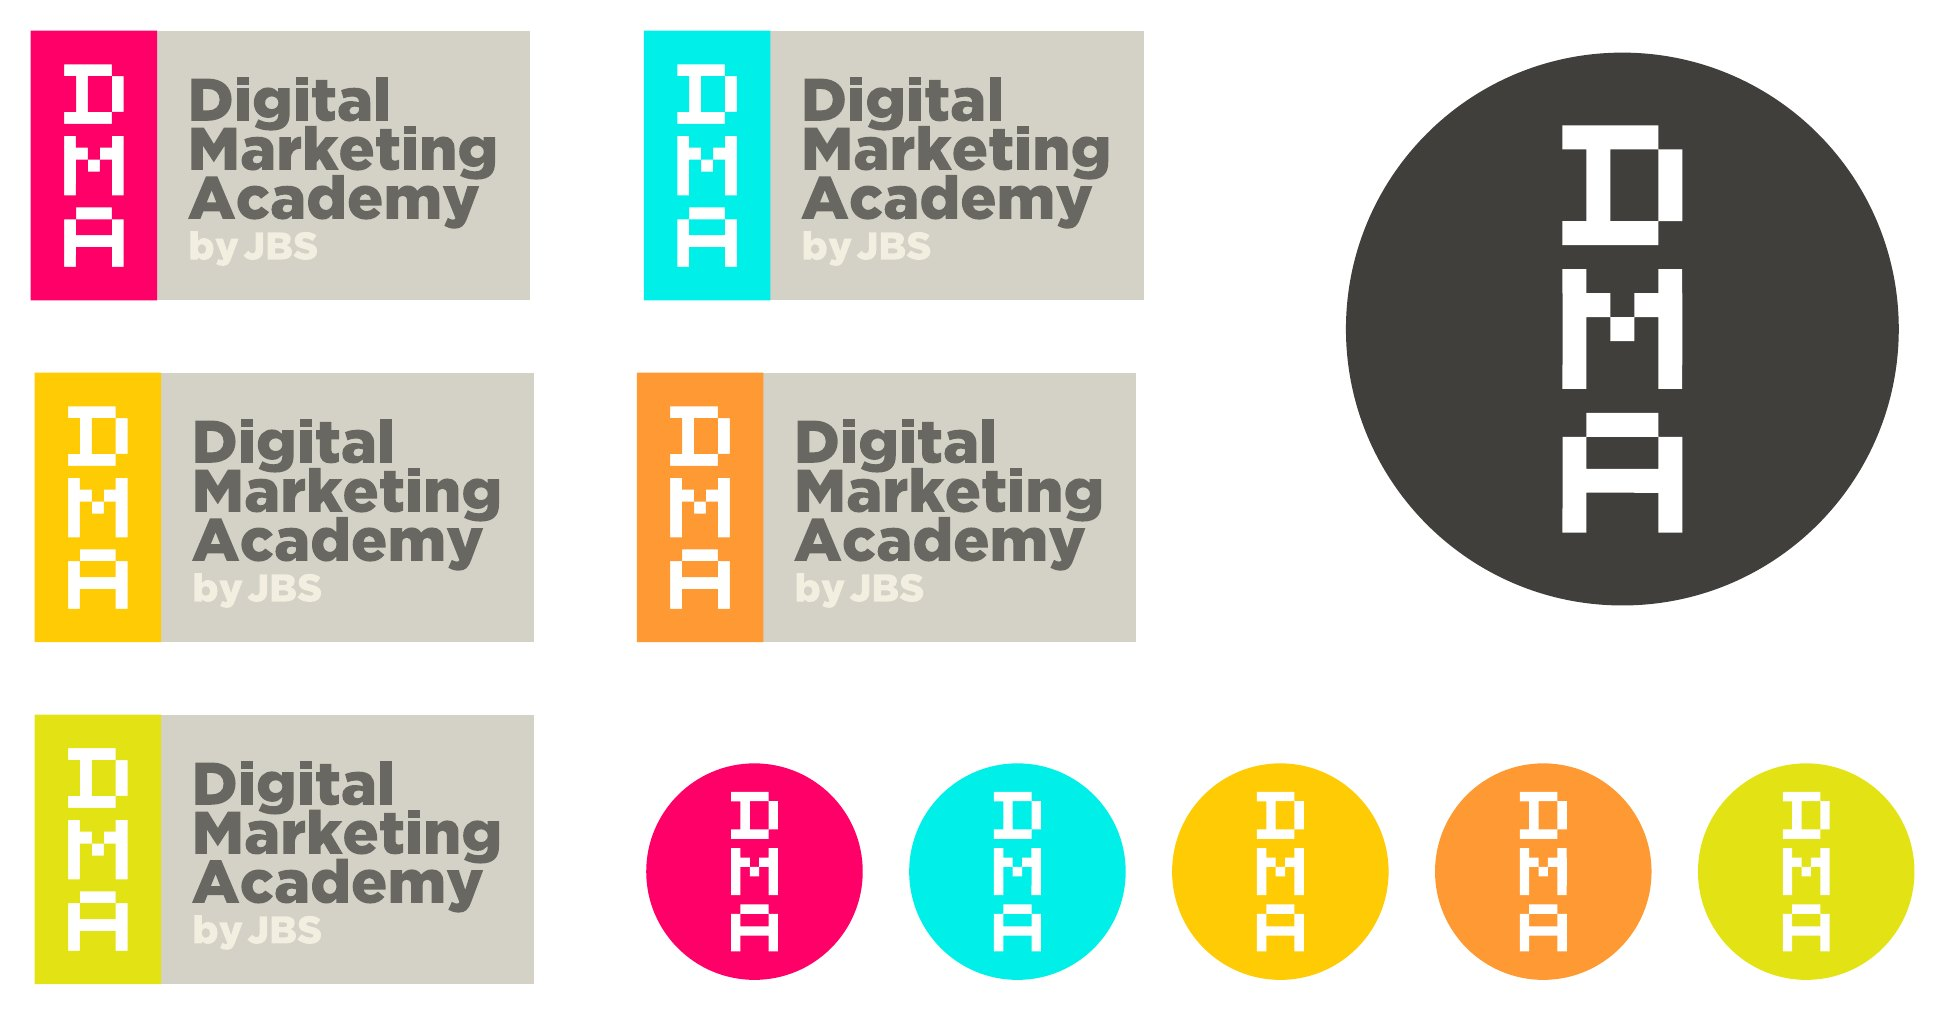
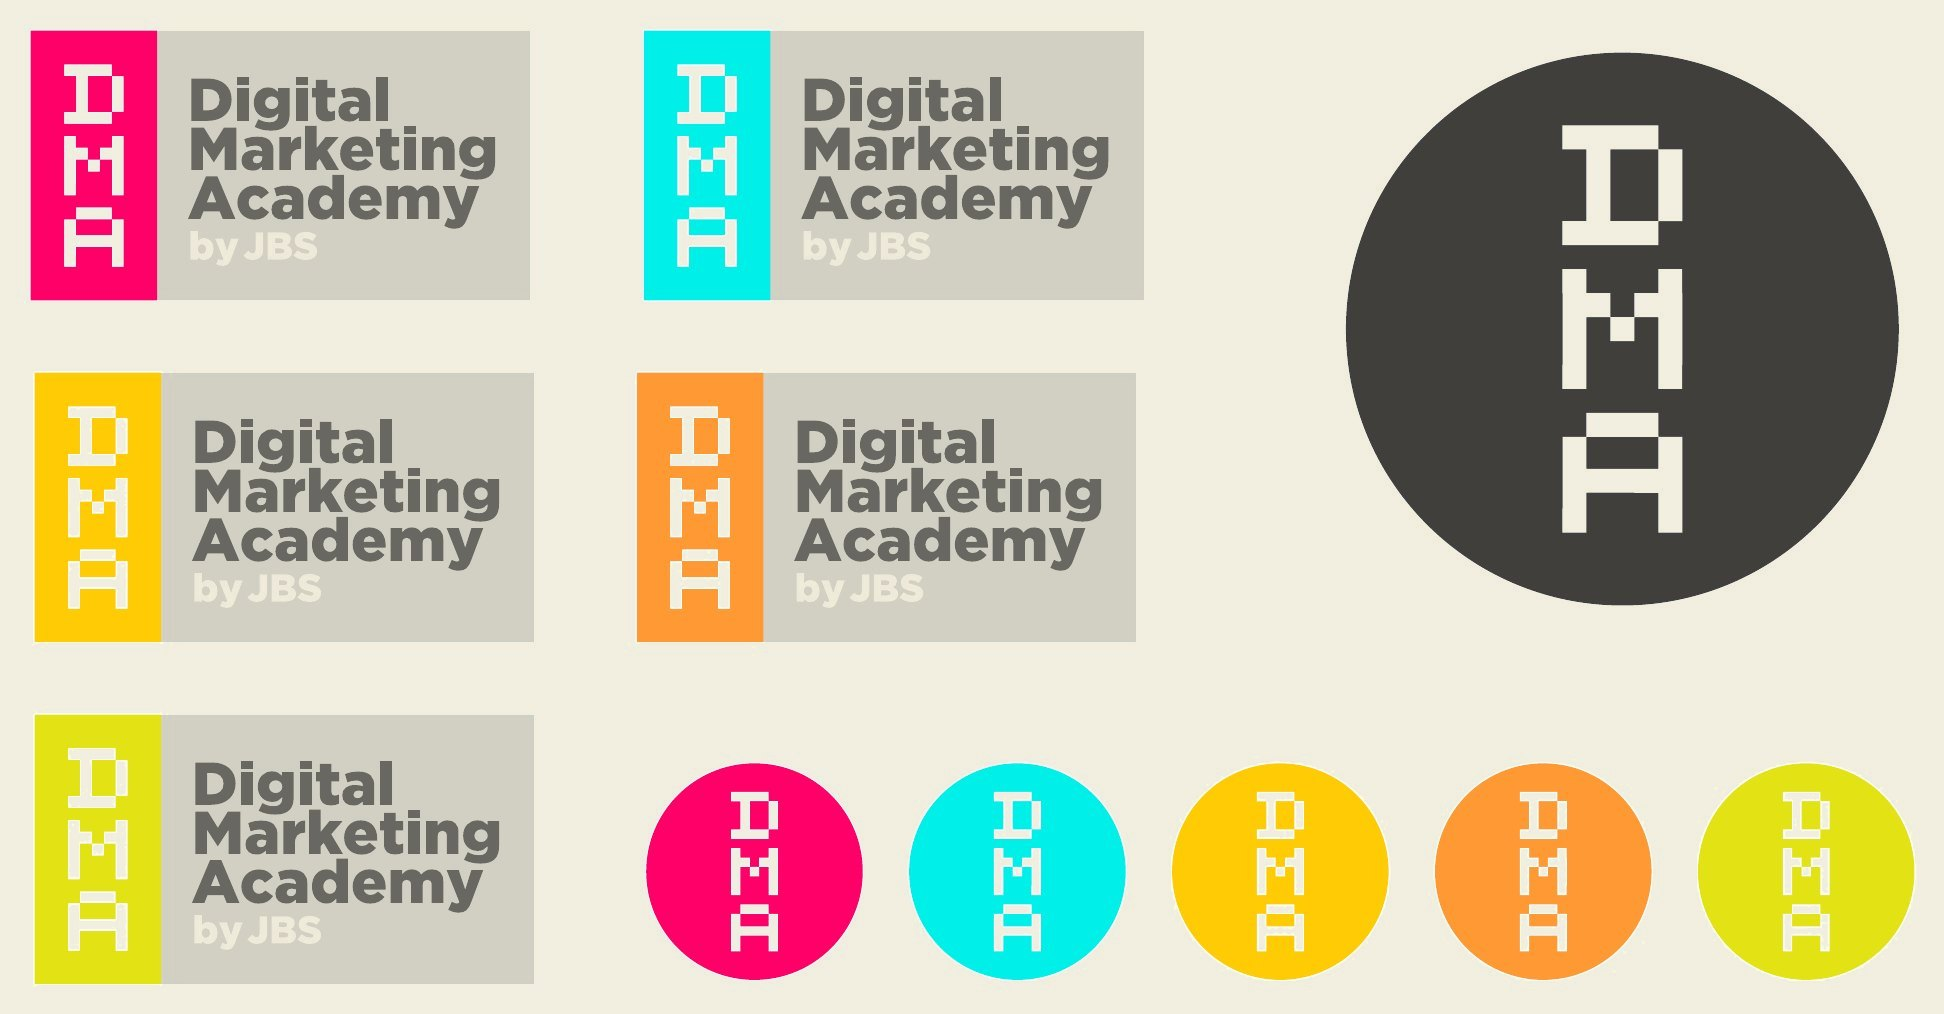
Draft DMA: blend white backgrounds, launch wording, 5 more mockups (Felipe, Nov 13 2026)
Claude-Session: https://claude.ai/code/session_01SfC83JdewSYvzzcULetiDM

diff --git a/js/content.js b/js/content.js
@@ -1201,7 +1201,7 @@ window.SITE = {
       sector: { en: "Corporate education", pt: "Educação corporativa", es: "Educación corporativa" },
       deliverables: { en: "Monogram, logo system, palette, typography, pattern, brandbook, launch campaign, stationery and merchandise", pt: "Monograma, sistema de logos, paleta, tipografia, padrão, brandbook, campanha de lançamento, papelaria e brindes", es: "Monograma, sistema de logos, paleta, tipografía, patrón, brandbook, campaña de lanzamiento, papelería y merch" },
       tags: { en: ["Branding", "VisualSystem", "Brandbook", "Launch"], pt: ["Branding", "SistemaVisual", "Brandbook", "Lançamento"], es: ["Branding", "SistemaVisual", "Brandbook", "Lanzamiento"] },
-      // Felipe, Nov 13 2026: done alone; the academy never launched, so the photo scenes are mockups (made with Flora) and say so.
+      // Felipe, Nov 13 2026: done alone; the academy launched and became the base for all of JBS's digital initiatives (incl. Seara Minha Receita, a case still to come). Photo scenes are Flora mockups and are captioned "Mockup".
       tools: ["Adobe CC", "*Flora.AI"],
       image: "images/dma/mockup-mural.jpg",
       hero: "bleed",
@@ -1219,7 +1219,7 @@ window.SITE = {
         { src: "images/dma/teaser-four.jpg", ar: "2000/900", col: 1, span: 12, caption: { en: "One message, four colourways", pt: "Uma mensagem, quatro cores", es: "Un mensaje, cuatro colores" } },
         { chapter: { en: "02 · Challenge", pt: "02 · Desafio", es: "02 · Desafío" }, kicker: { en: "The brief", pt: "O briefing", es: "El brief" },
           head: { en: "One academy, *one face.*", pt: "Uma academia, *uma cara só.*", es: "Una academia, *una sola cara.*" },
-          text: { en: "Under contract with JBS, I worked directly with then-CMO Sérgio Valente. He wanted a digital academy to mentor staff and leaders at Seara, Swift, Friboi and the group's other companies, with one name and one face. Digital Marketing Academy was born from the pixel.", pt: "Contratado pela JBS, trabalhei direto com o Sérgio Valente, CMO na época. Ele queria uma academia digital pra mentorar funcionários e líderes da Seara, Swift, Friboi e outras empresas do grupo, com um nome e uma cara só. Daí nasceu a Digital Marketing Academy, a partir do pixel.", es: "Contratado por JBS, trabajé directo con Sérgio Valente, el CMO de ese momento. Él quería una academia digital para mentorear a empleados y líderes de Seara, Swift, Friboi y otras empresas del grupo, con un solo nombre y una sola cara. De ahí nació Digital Marketing Academy, a partir del pixel." } },
+          text: { en: "Under contract with JBS, I worked directly with then-CMO Sérgio Valente. He wanted a digital academy to mentor staff and leaders at Seara, Swift, Friboi and the group's other companies, with one name and one face. Digital Marketing Academy was born from the pixel, and went on to become the base for all of JBS's digital initiatives.", pt: "Contratado pela JBS, trabalhei direto com o Sérgio Valente, CMO na época. Ele queria uma academia digital pra mentorar funcionários e líderes da Seara, Swift, Friboi e outras empresas do grupo, com um nome e uma cara só. Daí nasceu a Digital Marketing Academy, a partir do pixel, que virou a base de todas as iniciativas digitais da JBS.", es: "Contratado por JBS, trabajé directo con Sérgio Valente, el CMO de ese momento. Él quería una academia digital para mentorear a empleados y líderes de Seara, Swift, Friboi y otras empresas del grupo, con un solo nombre y una sola cara. De ahí nació Digital Marketing Academy, a partir del pixel, que se volvió la base de todas las iniciativas digitales de JBS." } },
         { src: "images/dma/mockup-stage.jpg", ar: "2000/1116", col: 1, span: 12, caption: { en: "Mockup — the academy on the big screen", pt: "Mockup — a academia no telão", es: "Mockup — la academia en la pantalla grande" } },
         { chapter: { en: "03 · The pixel", pt: "03 · O pixel", es: "03 · El pixel" }, kicker: "pix · el",
           head: { en: "The heart of the brand is *a pixel.*", pt: "O coração da marca é *um pixel.*", es: "El corazón de la marca es *un pixel.*" },
@@ -1255,33 +1255,37 @@ window.SITE = {
           head: { en: "Don't be *afraid.*", pt: "Sem *medo.*", es: "Sin *miedo.*" },
           text: { en: "Learning digital marketing means testing, getting it wrong and trying again. The brand's voice says it straight: don't be afraid to experiment, to explore, to innovate, to subvert, to create.", pt: "Aprender marketing digital é testar, errar e tentar de novo. A voz da marca diz isso sem rodeio: não tenha medo de experimentar, explorar, inovar, subverter, criar.", es: "Aprender marketing digital es probar, equivocarse y volver a intentarlo. La voz de la marca lo dice sin rodeos: no tengas miedo de experimentar, explorar, innovar, subvertir, crear." } },
         { src: "images/dma/dont-be-afraid.jpg", ar: "2000/945", col: 1, span: 12 },
+        { src: "images/dma/mockup-wall.jpg", ar: "2000/1116", col: 1, span: 12, caption: { en: "Mockup — the lines on a training room wall", pt: "Mockup — as frases na parede da sala de aula", es: "Mockup — las frases en la pared del aula" } },
         { chapter: { en: "09 · Launch", pt: "09 · Lançamento", es: "09 · Lanzamiento" }, kicker: { en: "Coming on January 6th 2023", pt: "Coming on January 6th 2023", es: "Coming on January 6th 2023" },
           head: { en: "We do really *love our pixels.*", pt: "A gente ama *nossos pixels.* De verdade.", es: "Amamos *nuestros pixeles.* En serio." },
-          text: { en: "The launch teaser was drawn with a date and a wink: “think inside the box”, set upside down, for a brand made of little boxes. In Portuguese the invitation became a pun: “Venha pixaprender”, come pixel-learn.", pt: "O teaser de lançamento foi desenhado com uma data e uma piscadinha: “think inside the box”, de ponta-cabeça, pra uma marca feita de quadradinhos. Em português, o convite virou trocadilho: “Venha pixaprender”.", es: "El teaser de lanzamiento se dibujó con una fecha y un guiño: “think inside the box”, al revés, para una marca hecha de cuadritos. En portugués, la invitación se volvió juego de palabras: “Venha pixaprender”." },
+          text: { en: "The launch teaser came with a date and a wink: “think inside the box”, set upside down, for a brand made of little boxes. In Portuguese the invitation became a pun: “Venha pixaprender”, come pixel-learn.", pt: "O teaser de lançamento veio com uma data e uma piscadinha: “think inside the box”, de ponta-cabeça, pra uma marca feita de quadradinhos. Em português, o convite virou trocadilho: “Venha pixaprender”.", es: "El teaser de lanzamiento llegó con una fecha y un guiño: “think inside the box”, al revés, para una marca hecha de cuadritos. En portugués, la invitación se volvió juego de palabras: “Venha pixaprender”." },
           pills: ["*We do really love our pixels!", "Think inside the box", "Venha pixaprender"] },
         { src: "images/dma/teaser-cyan.jpg", ar: "1932/1044", col: 1, span: 12, caption: { en: "Teaser", pt: "Teaser", es: "Teaser" } },
         { src: "images/dma/mockup-posters.jpg", ar: "2000/1116", col: 1, span: 12, caption: { en: "Mockup — teaser posters on the street", pt: "Mockup — cartazes do teaser na rua", es: "Mockup — afiches del teaser en la calle" } },
-        { src: "images/dma/feed.jpg", ar: "1/1", col: 1, span: 6, caption: { en: "Launch feed", pt: "Feed de lançamento", es: "Feed de lanzamiento" } },
+        { src: "images/dma/feed.jpg", ar: "2000/2000", col: 1, span: 6, caption: { en: "Launch feed", pt: "Feed de lançamento", es: "Feed de lanzamiento" } },
         { src: "images/dma/mockup-phone.jpg", ar: "1600/1986", col: 7, span: 6, caption: { en: "Mockup — the teaser on social", pt: "Mockup — o teaser nas redes", es: "Mockup — el teaser en redes" } },
         { chapter: { en: "10 · Applied identity", pt: "10 · Identidade aplicada", es: "10 · Identidad aplicada" }, kicker: { en: "Stationery · Merchandise", pt: "Papelaria · Brindes", es: "Papelería · Merch" },
           head: { en: "A pixel at every *touchpoint.*", pt: "Um pixel em cada *ponto de contato.*", es: "Un pixel en cada *punto de contacto.*" },
           text: { en: "Stationery for the day to day and a kit for whoever joins the academy: bags, badges, stickers and pins, phone cases, a desk mat, a bottle, a flash drive, sticky notes and a power bank. Every piece in the six colours, with the monogram never far away.", pt: "Papelaria pro dia a dia e um kit pra quem entra na academia: sacolas, crachá, adesivos e bottons, capinhas, mousepad, garrafa, pen drive, post-its e power bank. Tudo nas seis cores, com o monograma sempre por perto.", es: "Papelería para el día a día y un kit para quien entra a la academia: bolsas, credencial, stickers y pines, fundas, mousepad, botella, pendrive, notas adhesivas y power bank. Todo en los seis colores, con el monograma siempre cerca." } },
         { src: "images/dma/stationery-set.jpg", ar: "1952/1200", col: 1, span: 12, caption: { en: "Stationery", pt: "Papelaria", es: "Papelería" } },
+        { src: "images/dma/mockup-stationery.jpg", ar: "2000/1116", col: 1, span: 12, caption: { en: "Mockup — stationery on the desk", pt: "Mockup — papelaria na mesa", es: "Mockup — papelería en la mesa" } },
         { src: "images/dma/letter-pink-2.jpg", ar: "1831/979", col: 1, span: 6 },
         { src: "images/dma/letter-cyan-2.jpg", ar: "1968/1052", col: 7, span: 6 },
         { src: "images/dma/mockup-badge.jpg", ar: "1600/1986", col: 1, span: 6, caption: { en: "Mockup — badge", pt: "Mockup — crachá", es: "Mockup — credencial" } },
         { src: "images/dma/mockup-tote.jpg", ar: "1600/1986", col: 7, span: 6, caption: { en: "Mockup — tote bag", pt: "Mockup — sacola", es: "Mockup — bolsa" } },
-        { src: "images/dma/totes-4.jpg", ar: "2000/693", col: 1, span: 12, caption: { en: "Bags", pt: "Sacolas", es: "Bolsas" } },
+        { src: "images/dma/totes-4.jpg", ar: "1996/691", col: 1, span: 12, caption: { en: "Bags", pt: "Sacolas", es: "Bolsas" } },
         { src: "images/dma/mockup-stickers.jpg", ar: "2000/1493", col: 1, span: 12, caption: { en: "Mockup — stickers and pins", pt: "Mockup — adesivos e bottons", es: "Mockup — stickers y pines" } },
-        { src: "images/dma/stickers-pins.jpg", ar: "1944/1014", col: 1, span: 6, caption: { en: "Stickers and pins", pt: "Adesivos e bottons", es: "Stickers y pines" } },
-        { src: "images/dma/logo-stickers.jpg", ar: "1975/883", col: 7, span: 6, caption: { en: "Logo stickers", pt: "Adesivos de logo", es: "Stickers de logo" } },
+        { src: "images/dma/stickers-pins.jpg", ar: "1944/1014", col: 1, span: 12, caption: { en: "Stickers and pins", pt: "Adesivos e bottons", es: "Stickers y pines" } },
         { src: "images/dma/mockup-deskpad.jpg", ar: "2000/1116", col: 1, span: 12, caption: { en: "Mockup — desk mat, 90 × 40 cm", pt: "Mockup — mousepad, 90 × 40 cm", es: "Mockup — mousepad, 90 × 40 cm" } },
         { src: "images/dma/gamer-pads.jpg", ar: "2000/930", col: 1, span: 12, caption: { en: "Desk mats", pt: "Mousepads", es: "Mousepads" } },
         { src: "images/dma/phone-cases.jpg", ar: "2000/827", col: 1, span: 12, caption: { en: "Phone cases", pt: "Capinhas", es: "Fundas" } },
+        { src: "images/dma/mockup-phonecase.jpg", ar: "1600/1986", col: 1, span: 6, caption: { en: "Mockup — phone case", pt: "Mockup — capinha", es: "Mockup — funda" } },
+        { src: "images/dma/mockup-bottle.jpg", ar: "1600/1986", col: 7, span: 6, caption: { en: "Mockup — bottle", pt: "Mockup — garrafa", es: "Mockup — botella" } },
         { src: "images/dma/bottles-3.jpg", ar: "1993/1200", col: 1, span: 6, caption: { en: "Bottle", pt: "Garrafa", es: "Botella" } },
         { src: "images/dma/usb.jpg", ar: "1704/913", col: 7, span: 6, caption: { en: "Flash drives", pt: "Pen drives", es: "Pendrives" } },
         { src: "images/dma/postits.jpg", ar: "2000/936", col: 1, span: 6, caption: { en: "Sticky notes", pt: "Post-its", es: "Notas adhesivas" } },
         { src: "images/dma/powerbanks-3.jpg", ar: "2000/849", col: 7, span: 6, caption: { en: "Power banks", pt: "Power banks", es: "Power banks" } },
+        { src: "images/dma/mockup-powerbank.jpg", ar: "2000/1116", col: 1, span: 12, caption: { en: "Mockup — power bank", pt: "Mockup — power bank", es: "Mockup — power bank" } },
         { src: "images/dma/posters-wall.jpg", ar: "2000/900", col: 1, span: 12, caption: { en: "Posters", pt: "Pôsteres", es: "Afiches" } },
       ],
     },

diff --git a/index.html b/index.html
@@ -7,7 +7,7 @@
 <title>Bellintani — Felipe Bellintani, designer &amp; art director</title>
 <meta name="description" content="Bellintani — Multidisciplinary designer, art director, creative mind, hyperfocused ADHD brain, dad of a 7-year-old princess, music freak, amateur photographer, and whatever comes next.">
 <link rel="canonical" href="https://bellintani.work/">
-<link rel="icon" href="favicon.svg?v=202611131209" type="image/svg+xml">
+<link rel="icon" href="favicon.svg?v=202611131233" type="image/svg+xml">
 <link rel="apple-touch-icon" href="apple-touch-icon.png">
 <meta name="theme-color" content="#ffffff">
 <meta property="og:type" content="website">
@@ -31,7 +31,7 @@
 <link rel="preconnect" href="https://fonts.googleapis.com">
 <link rel="preconnect" href="https://fonts.gstatic.com" crossorigin>
 <link rel="stylesheet" href="https://fonts.googleapis.com/css2?family=Figtree:wght@500;700;900&family=JetBrains+Mono:wght@300;400;500&display=swap">
-<link rel="stylesheet" href="css/style.css?v=202611131209">
+<link rel="stylesheet" href="css/style.css?v=202611131233">
 </head>
 <body>
 <a class="skip-link mono" id="skip-link" href="#work" data-i18n="skipToContent"></a>
@@ -109,8 +109,8 @@
 <article class="case gut" id="case"></article>
 <div class="wipe" id="wipe" aria-hidden="true"></div>
 
-<script src="js/content.js?v=202611131209"></script>
-<script src="js/main.js?v=202611131209"></script>
+<script src="js/content.js?v=202611131233"></script>
+<script src="js/main.js?v=202611131233"></script>
 </body>
 </html>
 
